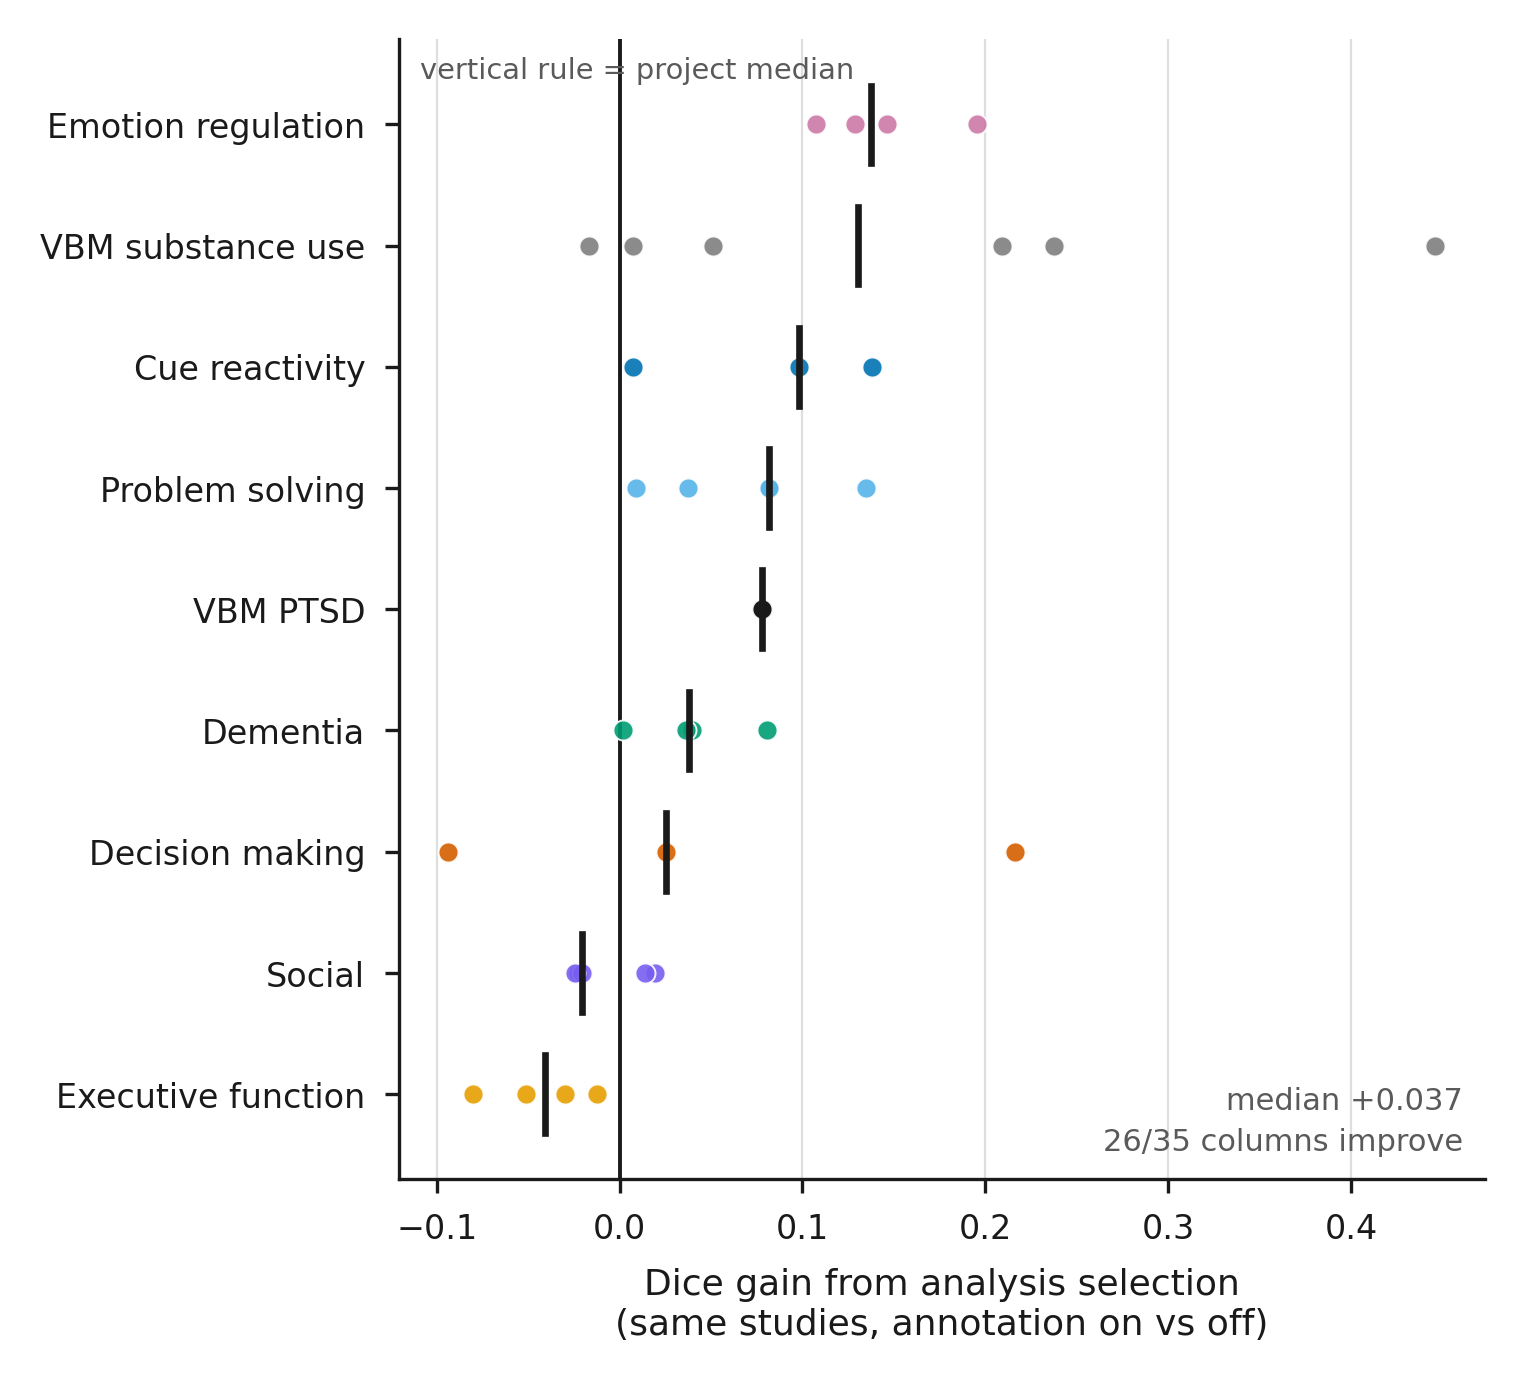
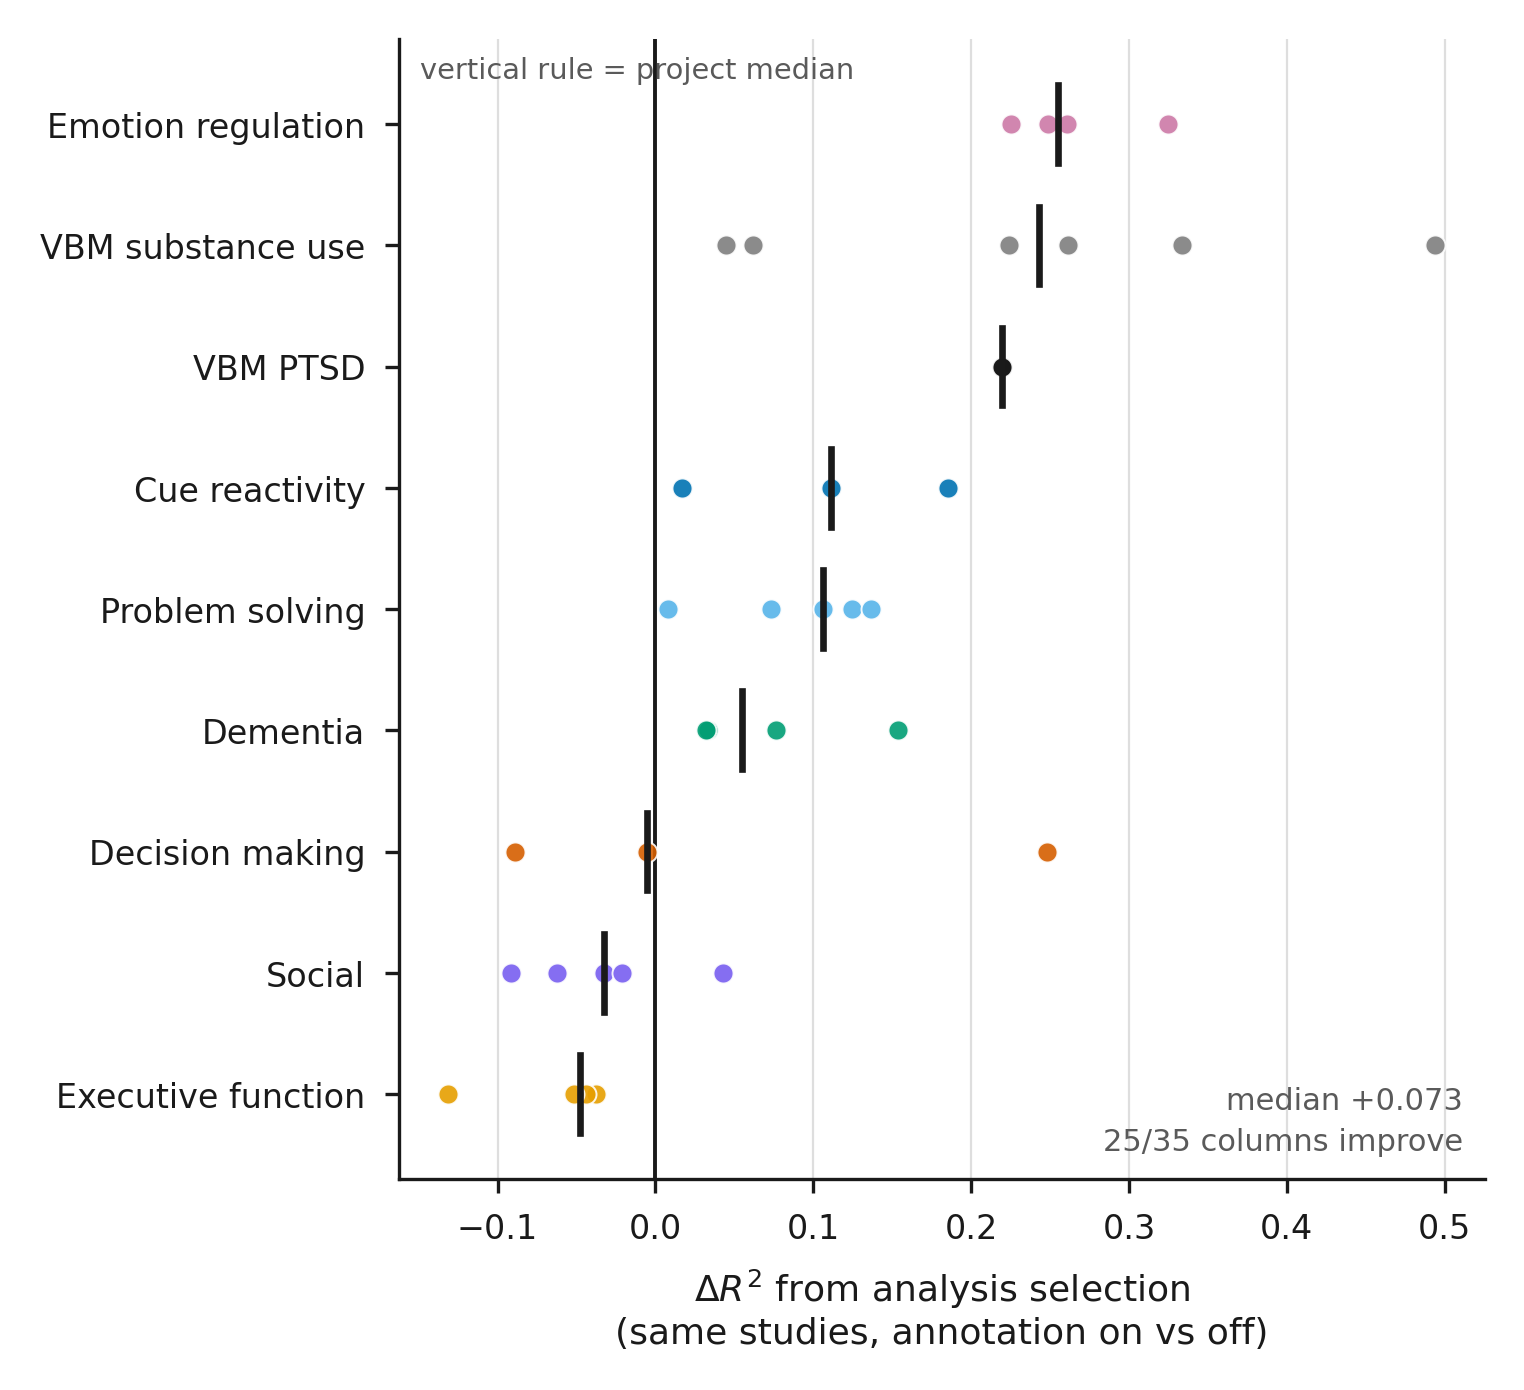
fix the pearson mapping bug in annotation_value, and unify both figures on r2
annotation_value.py populated pearson_annotated for only 14 of 35 rows.
The dice lookup resolves the annotated row through the project's
nmb_mappings -- there is a comment directly above it explaining that
social maps others_merged to perception_others -- but the pearson lookup
on the next line used the manual column name instead. It therefore
returned blank for every project whose annotation names differ from its
gold column names, and silently, since the field is optional. One word;
now 35/35.

That reopened the metric question and settles it. Figure 4 cannot use dice
because dice is degenerate here: four vbm_of_substance_use columns score
0.000 for every arm, and vbm_of_ptsd's sign reverses because its map is
correct but sparse, 7 studies and 72 peaks against 29 and 386. Figure 5
could not use r2 only because of the bug. With it fixed, r2 is available
for all 35 rows and is the stronger measure there -- median gain +0.0735
against dice's +0.0372, with the per-project ordering nearly unchanged.

So both figures now report r2, which also removes the awkwardness of
Result 5's headline reading three times weaker than Result 4's purely
because of units.

diff --git a/scripts/make_nature_methods_figures.py b/scripts/make_nature_methods_figures.py
@@ -427,11 +427,16 @@ def figure5(out_dir: Path) -> None:
     +0.007). Both belong in the text as tested-and-weak, not in a panel that would imply more than
     they support.
     """
+    # r2, matching Figure 4. annotation_value.csv stores pearson r, and r2 is exactly its square
+    # (verified against baseline_vs_autonima.csv, 104/104 rows). Both pearson columns were only
+    # populated for 14 of 35 rows until the mapping bug in annotation_value.py was fixed, which is
+    # why an earlier version of this figure used dice.
     rows = read(REPO_ROOT / "reports" / "annotation_value.csv")
     pts = []
     for r in rows:
         try:
-            ann, allan = float(r["dice_annotated"]), float(r["dice_all_analyses"])
+            ann = float(r["pearson_annotated"]) ** 2
+            allan = float(r["pearson_all_analyses"]) ** 2
         except (ValueError, KeyError):
             continue
         pts.append((r["project"], ann - allan))
@@ -455,7 +460,7 @@ def figure5(out_dir: Path) -> None:
     ax.set_yticks(range(len(order)))
     ax.set_yticklabels([DISPLAY.get(p, p) for p in order])
     ax.set_ylim(-0.7, len(order) - 0.3)
-    ax.set_xlabel("Dice gain from analysis selection\n(same studies, annotation on vs off)")
+    ax.set_xlabel("$\\Delta R^2$ from analysis selection\n(same studies, annotation on vs off)")
     ax.grid(axis="x", alpha=0.6)
     ax.set_axisbelow(True)
     improved = sum(1 for g in gains if g > 0)

diff --git a/scripts/annotation_value.py b/scripts/annotation_value.py
@@ -89,7 +89,11 @@ def main() -> int:
             rows.append({"project": pdir.name, "run": run, "manual_column": col,
                          "dice_annotated": round(ann, 4), "dice_all_analyses": round(alla, 4),
                          "dice_gain": round(ann - alla, 4),
-                         "pearson_annotated": round(P.get(col, {}).get(col), 4) if P.get(col, {}).get(col) is not None else "",
+                         # auto_row, not col -- same mapping the dice lookup above uses. Reading
+                         # the pearson diagonal with the manual name silently returned blank for
+                         # every project whose annotation names differ from its gold column names,
+                         # which was 21 of 35 rows.
+                         "pearson_annotated": round(P.get(auto_row, {}).get(col), 4) if P.get(auto_row, {}).get(col) is not None else "",
                          "pearson_all_analyses": round(P.get("all_analyses", {}).get(col), 4) if P.get("all_analyses", {}).get(col) is not None else "",
                          "annotation_f1": round(F[auto_row], 4) if auto_row in F else ""})
 

diff --git a/NATURE_METHODS_SKELETON.md b/NATURE_METHODS_SKELETON.md
@@ -255,37 +255,39 @@ them, and every triplet is verified by recomputing pipeline-vs-expert *R²* and 
 `cross_project_best_baseline.csv` (35/35 pass). A wrong path would produce a plausible figure that
 does not match the text, which is the failure mode worth engineering against.
 
-### Metric consistency — resolved 2026-09-04: r² for Figure 4, dice for Figure 5
+### Metric consistency — resolved 2026-09-04: r² throughout
 
-Figure 4 reports **r²** and Figure 5 **dice**. That started as an accident — each was whichever
-column its source file led with — and an attempt to unify on dice was tried and **reverted**,
-because the investigation turned up a reason the split is correct.
+Figures 4 and 5 originally reported different metrics by accident, each taking whichever column its
+source file led with. Both now report **r²**, and getting there turned up two things worth keeping.
 
-**Dice is degenerate on this corpus.** Four `vbm_of_substance_use` columns (nicotine, opioids,
-stimulants, cannabis) score **dice 0.000 for every arm** — no suprathreshold overlap at all — so it
-cannot rank them. r² separates them cleanly (nicotine 0.187 vs 0.066, stimulants 0.269 vs 0.105).
-Under dice these register as "ties", which is not a tie but an unmeasured comparison, and dropping
-them would have taken p from 2.2e-05 to 3.0e-08 on the strength of the metric failing.
+**Dice is degenerate on this corpus, so Figure 4 cannot use it.** Four `vbm_of_substance_use`
+columns (nicotine, opioids, stimulants, cannabis) score **dice 0.000 for every arm** — no
+suprathreshold overlap at all — so it cannot rank them, while r² separates them cleanly (nicotine
+0.187 vs 0.066). Dice also reverses the sign on vbm_of_ptsd, whose map is *correct but sparse*: 7
+studies and 72 peaks against the baseline's 29 and 386, scoring dice 0.111 vs 0.325 while scoring
+r² 0.456 vs 0.247. A thresholded overlap measure punishes missing extent; a correlation rewards
+matching shape. Corpus-wide, columns where the metrics disagree or tie have a median points ratio
+of **0.17** against **0.28** where they agree — systematic, not one odd column.
 
-**Dice also reverses the sign on vbm_of_ptsd**, and the reason generalises:
+**Figure 5 could not use r² until a bug was fixed.** `annotation_value.csv` populated
+`pearson_annotated` for only 14 of 35 rows, because that lookup used the manual column name where
+the dice lookup correctly used the mapped annotation name — so it returned blank for every project
+whose annotation names differ from its gold column names. One word in
+`scripts/annotation_value.py`; now 35/35.
 
-| arm | dice | r² | pearson | studies | points |
-|---|---|---|---|---|---|
-| autonima | **0.111** | **0.456** | **+0.675** | **7** | **72** |
-| baseline | 0.325 | 0.247 | +0.497 | 29 | 386 |
+With that fixed, r² is both available everywhere and the stronger measure for Result 5:
 
-The pipeline map is *correct but sparse* — 7 studies and 72 peaks against 29 and 386. A
-thresholded overlap measure punishes missing extent; a correlation rewards matching shape. Across
-the corpus the columns where the two metrics disagree or tie have a median points ratio of 0.17
-against 0.28 for those where they agree, so this is systematic, not one odd column.
+| metric | median gain | mean | improve |
+|---|---|---|---|
+| **r²** | **+0.0735** | **+0.0995** | 25/35 |
+| dice | +0.0372 | +0.0650 | 26/35 |
 
-**But r² cannot be used for Figure 5**: `annotation_value.csv` carries pearson for only **14 of 35
-rows**, so switching would cost 21 columns. Dice covers all 35 there.
+Per-project ordering is nearly identical (only decision_making flips sign, +0.025 → −0.006), so
+the choice does not drive the story — and reporting both results in the same units removes the
+awkwardness of Result 5's headline looking three times weaker than Result 4's for no real reason.
 
-So the split stands, with a reason: **r² where maps differ in extent and sparsity matters
-(baseline comparison), dice where coverage of the column set matters more (annotation gain).** Say
-this in Methods in one sentence, and report the robustness check — `compile_best_baselines.py
---metric dice` still runs and gives Δ +0.107, the same 30 of 35 columns.
+`compile_best_baselines.py --metric {r2,dice,pearson_r}` keeps the robustness check runnable:
+dice gives Δ +0.107 with the same 30 of 35 columns.
 
 One argument against r² that turns out **not** to apply: r² discards sign, so an anti-correlated
 map would score as well as a correlated one. Checked — 0 of 104 comparisons have negative pearson
@@ -296,9 +298,9 @@ r. Do not use it as the justification.
 §6. **This is the paper.** Holding the study pool fixed, annotation still improves the map — so the
 advantage is not explained by retrieving better papers.
 
-**Median +0.037 dice, 26 of 35 columns improve.** Note this is a softer headline than Result 4's
-+0.101 and measures a different thing; Result 5 must quote its own number rather than borrowing
-Result 4's.
+**Median Δ*R²* +0.074, 25 of 35 columns improve.** Same units as Result 4 now, but still a
+different comparison — Result 4 is pipeline vs search-only baseline, Result 5 is annotation on vs
+off with the study pool held fixed. Quote its own number.
 
 Single panel, deliberately. An earlier draft paired this with a slope plot of baseline vs annotated
 dice across all 35 columns — 35 crossing lines in 89mm, unreadable, and carrying nothing the gain
